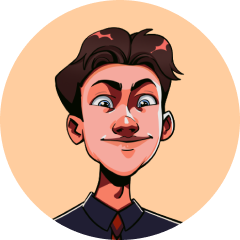
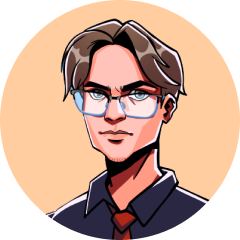
fix

diff --git a/components/team.jsx b/components/team.jsx
@@ -103,10 +103,10 @@ function Team(props) {
           top: 19,
         },
         description: {
-          name: "Герман",
-          role: "Фидбек",
+          name: "Александр",
+          role: "Глава технического отдела",
         },
-        img: "german",
+        img: "aleksandr",
         change_other: {
           sanya: {
             cord: { left: 295, top: 259 },
@@ -945,10 +945,10 @@ function Team(props) {
           top: 19,
         },
         description: {
-          name: "Герман",
-          role: "Фидбек",
+          name: "Александр",
+          role: "Глава технического отдела",
         },
-        img: "german",
+        img: "aleksandr",
         change_other: {
           sanya: {
             cord: { left: 295, top: 259 },
@@ -1787,10 +1787,10 @@ function Team(props) {
           top: 19,
         },
         description: {
-          name: "Герман",
-          role: "Фидбек",
+          name: "Александр",
+          role: "Глава технического отдела",
         },
-        img: "german",
+        img: "aleksandr",
         change_other: {
           sanya: {
             cord: { left: 295, top: 259 },
@@ -2629,10 +2629,10 @@ function Team(props) {
           top: 2,
         },
         description: {
-          name: "Герман",
-          role: "Фидбек",
+          name: "Александр",
+          role: "Глава технического отдела",
         },
-        img: "german",
+        img: "aleksandr",
         change_other: {
           sanya: {
             cord: { left: 231, top: 120 },
@@ -3436,7 +3436,7 @@ function Team(props) {
                 onClick={() => toggleMember(index)}
               >
                 <img
-                  src={`/images/png/team/bg/${elem.img}-bg.png`}
+                  src={`/images/png/team/${elem.img}.png`}
                   alt=""
                   style={{
                     width: elem.size.selected * currentScale + "px",
@@ -3518,7 +3518,7 @@ function Team(props) {
                 onMouseLeave={() => setHovered(-1)}
               >
                 <img
-                  src={`/images/png/team/bg/${elem.img}-bg.png`}
+                  src={`/images/png/team/${elem.img}.png`}
                   alt=""
                   style={{
                     transition: "0.5s",
